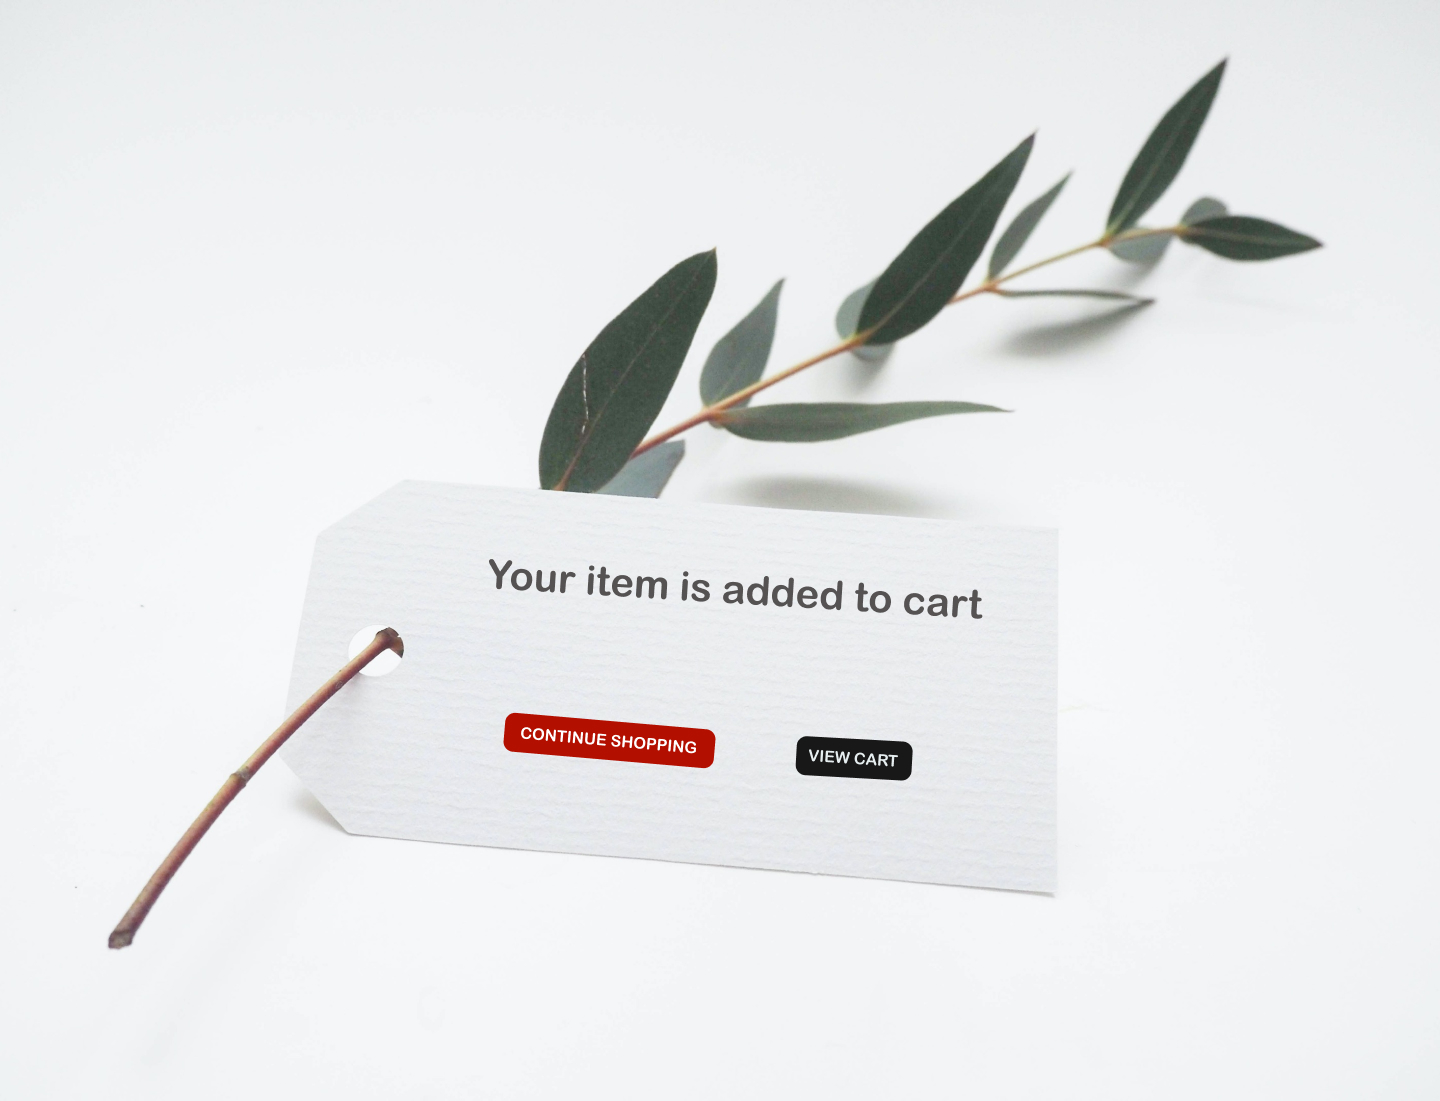
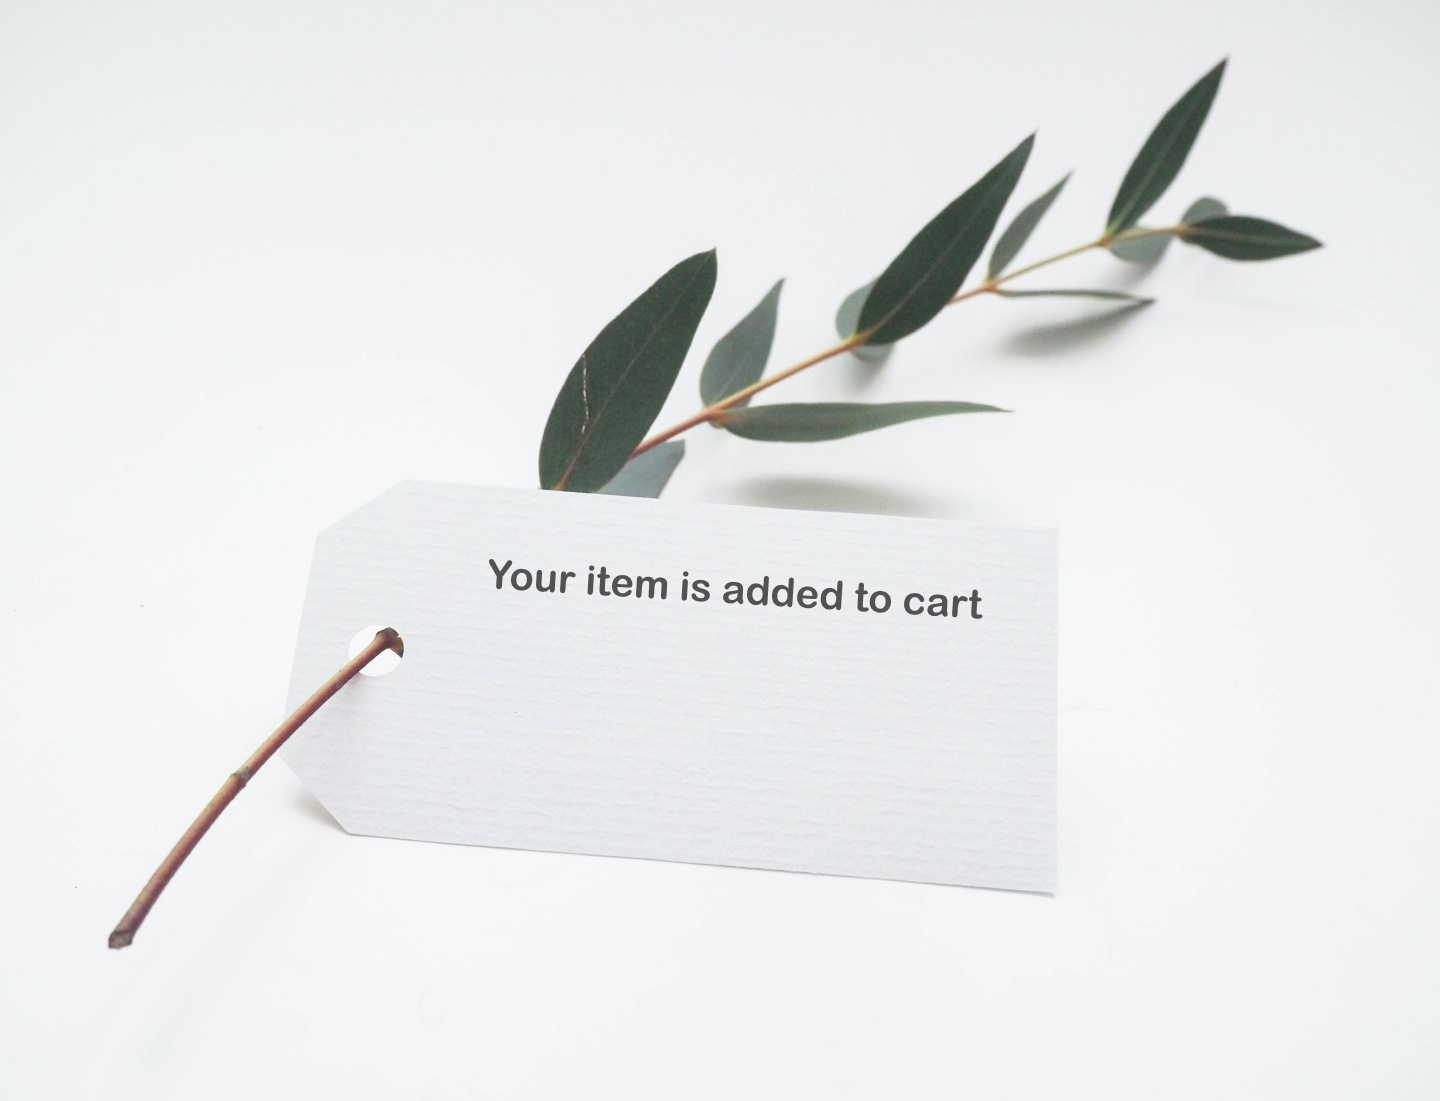
add to cart  page

Changed region(s): [[0.3438, 0.6485, 0.5, 0.7103], [0.5312, 0.6485, 0.6562, 0.7103]]

diff --git a/addcart.html b/addcart.html
@@ -3,7 +3,7 @@
   <head>
     <meta charset="UTF-8" />
     <meta name="viewport" content="width=device-width, initial-scale=1.0" />
-    <title>Rainyday | Subscribed</title>
+    <title>Rainyday | Submission</title>
     <link rel="stylesheet" href="src/css/styles.css" />
     <script
       type="module"
@@ -24,12 +24,11 @@
         <img src="assets/images/Logo.jpg" />
         <ul class="menu-bar">
           <li>
-            <a class="menu-bar-item menu-bar-item--selected" href="index.html">HOME</a>
+            <a class="menu-bar-item menu-bar-item--selected" href="index.html"
+              >HOME</a>
           </li>
           <li>
-            <a class="menu-bar-item " href="product.html"
-              >PRODUCT</a
-            >
+            <a class="menu-bar-item" href="product.html">PRODUCT</a>
           </li>
           <li><a class="menu-bar-item" href="about.html">ABOUT</a></li>
           <li>
@@ -41,18 +40,17 @@
           <ion-icon size="large" name="cart"></ion-icon>
         </div>
       </section>
+      <div class="image-add-cart">
+        <img src="assets/images/Add to cart.jpg">
+    
+      <div class="button-back-view-cart">
+        <a href="index.html"
+      ><button class="button-back-home">CONTINUE SHOPPING</button></a>
+      <a href="yourcart.html"
+      ><button class="button-view-cart">VIEW CART</button></a>
+      </div>
+    </div>
     </header>
-    <div class="image-thanks">
-        <img src="assets/images/THANKS.png" alt="Thanks for subscribed" />
-    </div>
-    <div class="message-subscribe">
-      <p>Your are now subscribed!</p>
-    </div>
-    <div class="sub-back-home">
-    <a href="index.html"
-              ><button class="button-back-home">CONTINUE SHOPPING</button></a
-            >
-  </div>
     <footer>
       <div class="footer-bar">
         <div class="footer-left">
@@ -83,7 +81,9 @@
                 />
               </form>
             </div>
-            <a href="subscribed.html" > <button class="button-subscribe">SUBSCRIBE</button></a>
+            <a href="subscribed.html"
+              ><button class="button-subscribe">SUBSCRIBE</button></a
+            >
           </div>
           <div class="footer-link-store">
             <div class="footer-right-shop">

diff --git a/submission.html b/submission.html
@@ -3,7 +3,7 @@
   <head>
     <meta charset="UTF-8" />
     <meta name="viewport" content="width=device-width, initial-scale=1.0" />
-    <title>Rainyday | Checkout</title>
+    <title>Rainyday | Submission</title>
     <link rel="stylesheet" href="src/css/styles.css" />
     <script
       type="module"
@@ -24,12 +24,12 @@
         <img src="assets/images/Logo.jpg" />
         <ul class="menu-bar">
           <li>
-            <a class="menu-bar-item menu-bar-item--selected" href="index.html">HOME</a>
+            <a class="menu-bar-item menu-bar-item--selected" href="index.html"
+              >HOME</a
+            >
           </li>
           <li>
-            <a class="menu-bar-item " href="product.html"
-              >PRODUCT</a
-            >
+            <a class="menu-bar-item" href="product.html">PRODUCT</a>
           </li>
           <li><a class="menu-bar-item" href="about.html">ABOUT</a></li>
           <li>
@@ -42,9 +42,17 @@
         </div>
       </section>
     </header>
-    <section>
-        <img src="assets/images/Submission.jpg" alt="Thanks for submission" />
-    </section>
+    <div class="image-submission">
+      <img src="assets/images/Submission.jpg" alt="Thanks for submission" />
+    </div>
+    <div class="message-submission-page">
+      <p class="mess-thank">THANK YOU</p>
+      <p class="mess-submission">Your submission has been sent</p>
+    </div>
+    <div class="submission-button-back-home">
+    <a href="index.html"
+      ><button class="button-back-home">CONTINUE SHOPPING</button></a>
+    </div>
     <footer>
       <div class="footer-bar">
         <div class="footer-left">
@@ -75,7 +83,9 @@
                 />
               </form>
             </div>
-            <a href="subscribed.html"><button class="button-subscribe">SUBSCRIBE</button></a>
+            <a href="subscribed.html"
+              ><button class="button-subscribe">SUBSCRIBE</button></a
+            >
           </div>
           <div class="footer-link-store">
             <div class="footer-right-shop">

diff --git a/src/css/styles.css b/src/css/styles.css
@@ -579,16 +579,16 @@ h3.product-detail-link {
 }
 .con-shopping {
   width: 211px;
-  height: 39px;
+  height: 40px;
   flex-shrink: 0;
   border-radius: 10px;
   border: 1px solid #d2d2d2;
   background-color: var(--color-button-checkout);
 }
 
-.purchase {
+.purchase, .button-view-cart {
   width: 116px;
-  height: 39px;
+  height: 40px;
   flex-shrink: 0;
   border-radius: 10px;
   background-color: var(--color-text-dark);
@@ -723,7 +723,7 @@ h3.product-detail-link {
 
 .button-back-home {
   width: 211px;
-  height: 46px;
+  height: 40px;
   flex-shrink: 0;
   border-radius: 10px;
   background: var(--color-text-sub);
@@ -739,4 +739,75 @@ h3.product-detail-link {
 /* subscribe page */
 .image-thanks > img {
   width: 100%;
+  position: relative;
+}
+.message-subscribe {
+  color: var(--color-sub-thanks);
+text-align: center;
+font-family: Arial;
+font-size: 50px;
+font-style: normal;
+font-weight: 400;
+line-height: normal;
+position: absolute;
+bottom: 700px;
+right: 850px
+}
+.sub-back-home {
+  position: absolute;
+  bottom:10px;
+  left: 750px;
+}
+
+/* submission */
+.image-submission >img {
+  width: 100%;
+  position: relative;
+}
+
+.mess-thank {
+  color: var(--color-submission);
+font-family: "Aref Ruqaa";
+font-size: 40px;
+font-style: normal;
+font-weight: 700;
+line-height: normal;
+text-align: center;
+}
+.mess-submission {
+  color: var(--color-submission);
+text-align: center;
+font-family: "Arial";
+font-size: 40px;
+font-style: normal;
+font-weight: 400;
+line-height: normal;
+padding-top: 50px;
+}
+
+.message-submission-page {
+  position: absolute;
+  top: 800px;
+  left: 800px;
+
+}
+
+.submission-button-back-home {
+  position: absolute;
+  bottom: 60px;
+  left: 780px;
+}
+
+/* add to cart */
+.image-add-cart >img {
+  width: 100%;
+  position: relative;
+}
+
+.button-back-view-cart {
+  display: flex;
+gap: 50px;
+position: absolute;
+top:1300px;
+left: 700px;
 }

diff --git a/src/css/_variables.css b/src/css/_variables.css
@@ -14,6 +14,8 @@
   --color-size-xxl:#E6E0E0;
   --color-button-checkout: #E1DBDB;
   --color-checkout-items:#C6F5FF;
+  --color-sub-thanks:#B6ABA5;
+  --color-submission:#555252;
 
 
 
